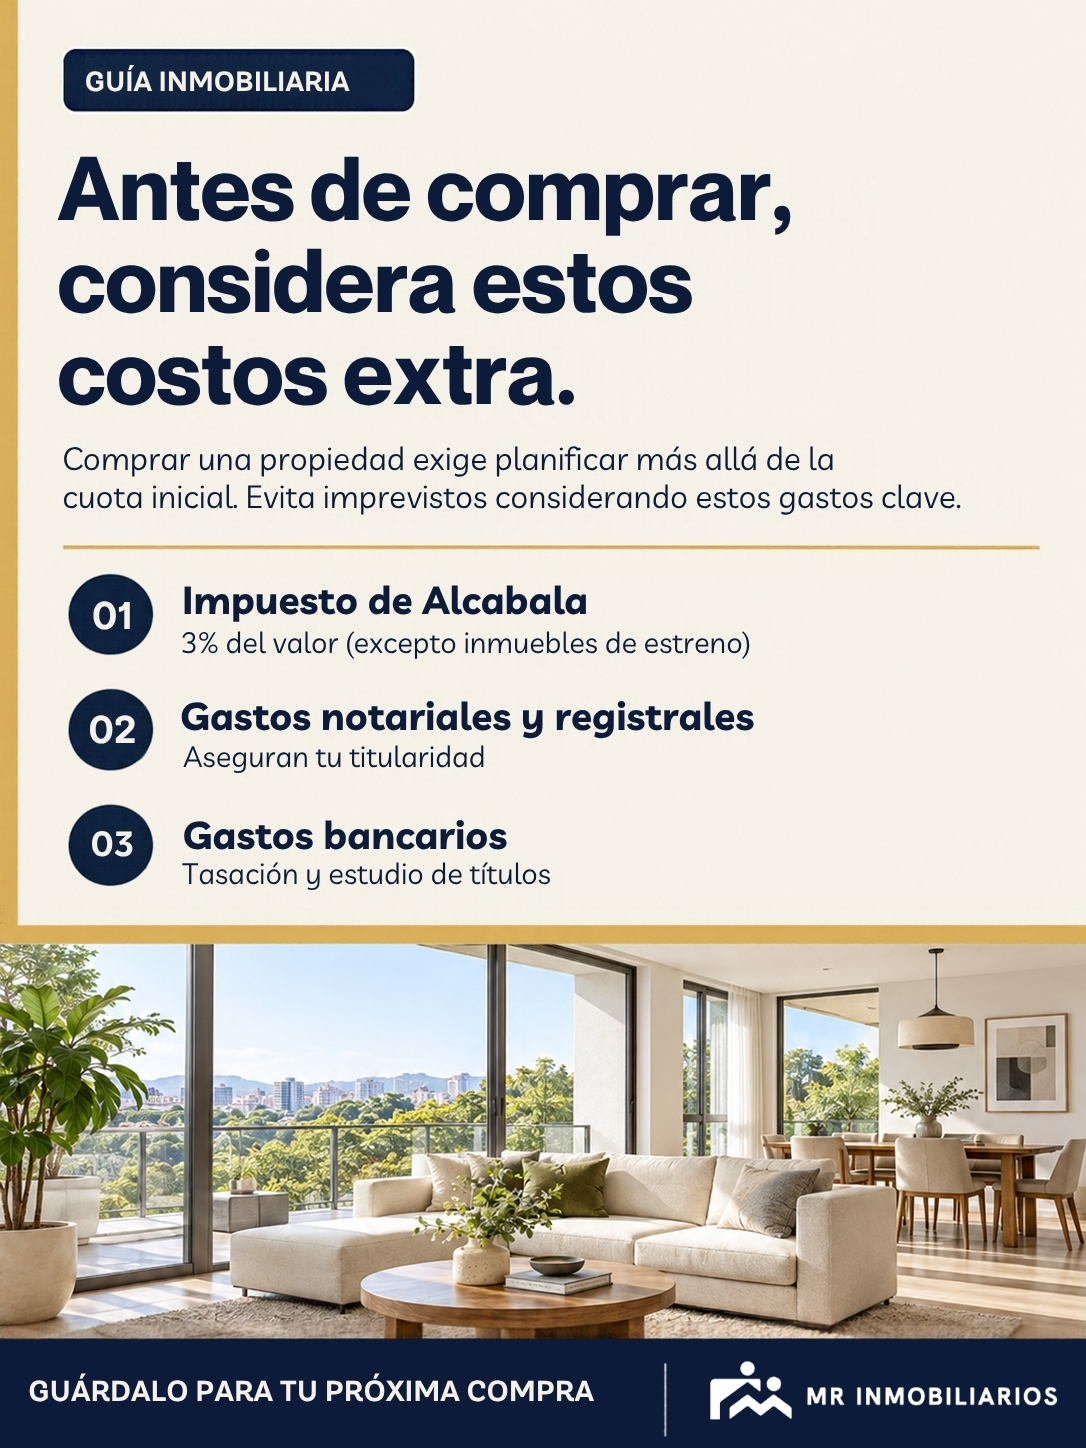
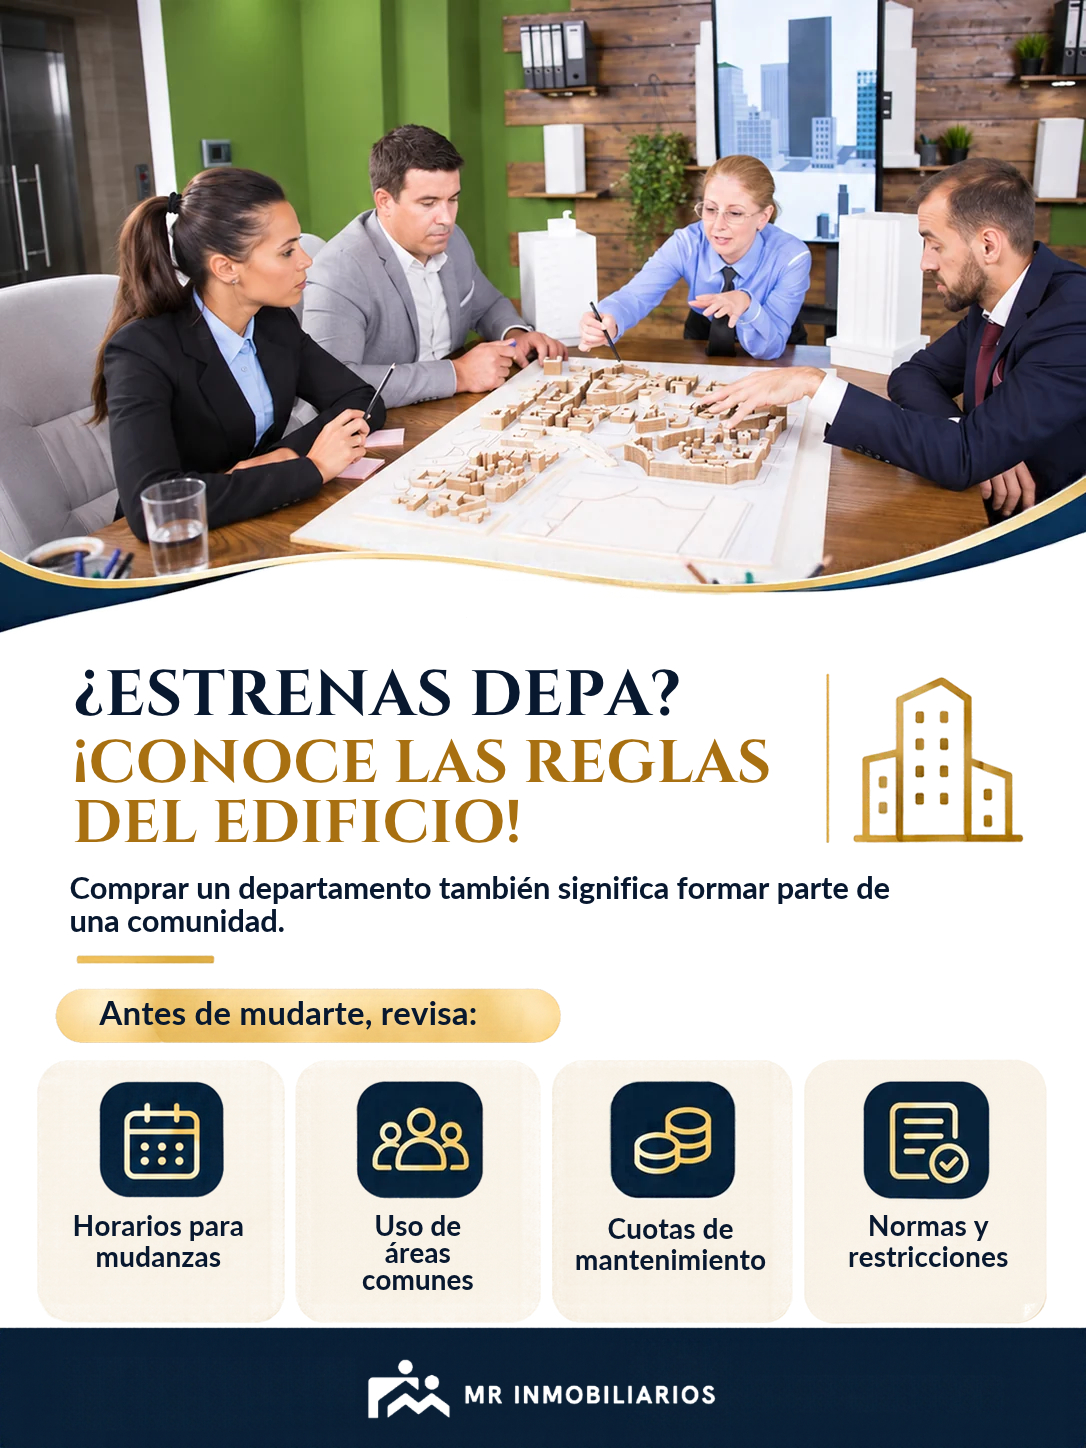
Add files via upload

diff --git a/data.js b/data.js
@@ -6,91 +6,75 @@ const CONFIG_SEMANAL = {
     whatsappPublicaciones: "986 590 866",
     whatsappDestino: "",
     titulo: "Calendario Noviembre 2026",
-    rangoFechas: "Semana del martes 03 al sábado 07 de noviembre",
+    rangoFechas: "Semana del martes 10 al sábado 14 de noviembre",
     publicaciones: [
         {
             tipo: "imagen",
-            diaSemana: "Martes 3 de noviembre",
-            imagenes: ["img/3.jpg"],
-            copy: `🔑 Checklist rápido antes de mudarte 🏡✨
+            diaSemana: "Martes 10 de noviembre",
+            imagenes: ["img/10.jpg"],
+            copy: `🔑 ¿VAS A ALQUILAR? ¡NO ENTREGUES LAS LLAVES SIN ESTO!
 
-Recibir las llaves es emocionante, pero revisa esto antes de llevar tus cosas:
+Antes de entregar tu propiedad, prepara un inventario detallado de su estado.
 
-☑ Cerraduras y accesos: Puertas, ventanas y llaves funcionando al 100%.
-☑ Gas y agua: Grifos, desagües y presión sin fugas.
-☑ Electricidad: Tomacorrientes y puntos de luz operativos.
-☑ Servicios activos: Luz y agua habilitados a tu nombre o listos para usar.
-☑ Documenta todo: Toma fotos o videos de cualquier detalle antes de firmar la entrega final.
-☑ Administración: Reglas del edificio, cuota de mantenimiento y acceso a áreas comunes.
-
-Empezar con todo en orden te evita dolores de cabeza después. 🧠🔑
-
-💬 ¿Qué es lo primero que revisas al entrar a un departamento nuevo?`
+📸 Toma fotografías de los ambientes, muebles y equipos.
+🔍 Registra instalaciones, medidores y cualquier desperfecto existente.
+📝 Deja constancia por escrito y asegúrate de que ambas partes estén de acuerdo.
+🏡 Un inventario bien hecho evita malentendidos y protege tanto al propietario como al inquilino.`
         },
 
         {
             tipo: "video",
-            diaSemana: "Jueves 5 de noviembre",
-            imagenes: ["img/5.jpg"],
-            copy: `🏢 VENTA DE EDIFICIO COMERCIAL EN MANCHAY - AV. VÍCTOR MALÁSQUEZ
+            diaSemana: "Jueves 12 de noviembre",
+            imagenes: ["img/12.jpg"],
+            copy: `📍 ¿Buscas un terreno con buena ubicación y proyección en Manchay?
 
-💰 USD 395,000
+Te mostramos cómo llegar a este terreno urbano de 251 m², ubicado en Av. Los Naranjos, a solo 4 cuadras del futuro Hospital Papa Francisco II.
 
-Excelente oportunidad de inversión con alta exposición comercial e infraestructura sólida.
+✅ Doble esquina
+✅ Todos los servicios básicos
+✅ Zona urbana consolidada
+✅ Ideal para vivienda o proyecto de inversión
+💰 Precio: USD 75,000
 
-📍 Ubicación estratégica: Frente a la Av. Principal Víctor Malásquez.
-
-✨ Detalles clave:
-📐 Área de terreno: 160 m² | Área construida: 480 m².
-🏢 Distribución: 4 pisos + terraza.
-🏗 Construcción: Estructura de concreto armado con escaleras interiores.
-🔑 Espacios: Ambientes amplios y adaptables para diversos giros comerciales.
-📜 Legal: Título de propiedad en regla.
+Acompáñanos en el recorrido y conoce lo cerca que está de una de las zonas con mayor proyección de Manchay.
 
 `
         },
 
         {
-            tipo: "video",
-            diaSemana: "Viernes 6 de noviembre",
-            imagenes: ["img/6.jpg"],
-            copy: `🌳 VENTA DE TERRENO EN CIENEGUILLA - FRENTE A PLAZA DE ARMAS
+            tipo: "imagen",
+            diaSemana: "Viernes 13 de noviembre",
+            imagenes: ["img/13.jpg"],
+            copy: `🏢 ¿ESTRENAS DEPA? ¡CONOCE LAS REGLAS DEL EDIFICIO!
 
-💰 USD 680,000
+Comprar un departamento también significa formar parte de una comunidad.
 
-Ubicación estratégica en doble esquina frente a la Plaza de Armas, ideal para desarrollo comercial o residencial.
+🔑 Antes de mudarte, revisa:
 
-📍 Ubicación: Cieneguilla.
+✅ Horarios permitidos para mudanzas.
+✅ Uso de áreas comunes.
+✅ Cuotas de mantenimiento.
+✅ Normas de convivencia y restricciones.
 
-✨ Detalles clave:
-
-📐 Terreno: 1,108.7 m² (Frente 29.4 ml x Fondo 29.3 ml).
-🏗 Construidos: 230 m².
-📊 Parámetros: 5 pisos + terraza.
-🏪 Zonificación: Comercial | Servicios básicos disponibles.
-📜 Legal: Documentación en regla.`
+💡 TIP: Solicita el reglamento interno y conoce los acuerdos de la junta de propietarios.`
         },
 
         {
-            tipo: "imagen",
-            diaSemana: "Sábado 7 de noviembre",
-            imagenes: ["img/7.jpg"],
-            copy: `🌳 VENTA DE TERRENO EN CONDOMINIO BOSQUES DEL MOLLE
+            tipo: "video",
+            diaSemana: "Sábado 14 de noviembre",
+            imagenes: ["img/14.jpg"],
+            copy: `✨ NUEVO INGRESO EN ASIA
 
-💰 USD 45,000
+Una casa para disfrutar el mar, la tranquilidad y esos días que quisieras que no terminen.
 
-Construye tu casa de campo en un entorno exclusivo, tranquilo y rodeado de naturaleza.
+🏡 220 m²
+📍 Condominio Las Terrazas – Balneario Asia
+🌊 Excelente ubicación para disfrutar la temporada o todo el año
+💰 S/ 350,000
 
-📍 Ubicación: Condominio Bosques del Molle.
+Tu próxima casa de playa puede estar aquí.
 
-✨ Detalles clave:
-
-📐 Área: 250 m².
-📊 Parámetros: Hasta 2 pisos.
-💡 Servicios: Básicos completos.
-🎾 Amenities: Cancha de tenis y frontón + áreas verdes con más de 100 árboles.
-🚗 Infraestructura: Pistas compactadas.
-📜 Legal: Documentos en regla. 
+📲 Escríbenos para más información o para coordinar una visita. 
 `
         }
     ]
